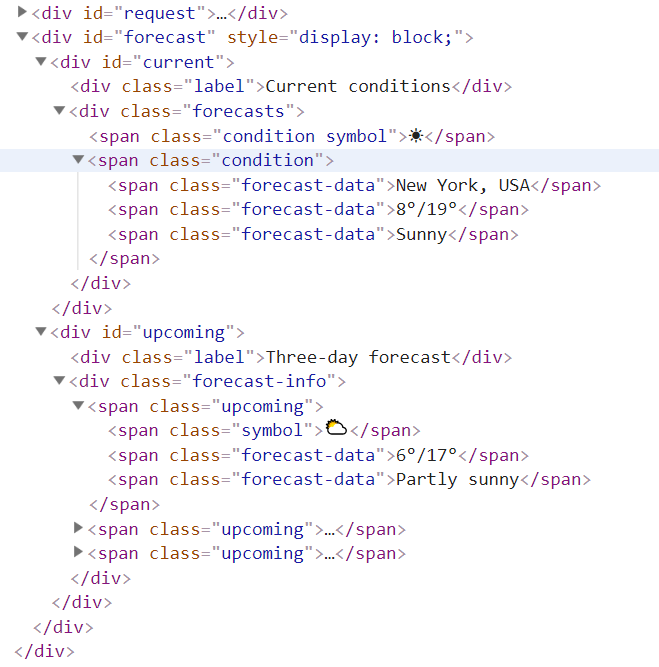
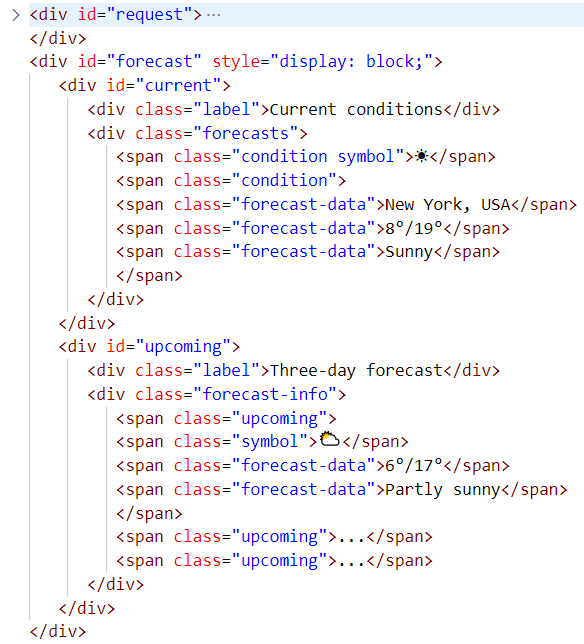
Refactor content

Changed region(s): [[0.0, 0.0, 1.0, 0.9938], [0.6473, 0.8075, 0.7397, 0.9006]]

diff --git a/RO/03-Asynchronous-Programming/06-Homework.md b/RO/03-Asynchronous-Programming/06-Homework.md
@@ -255,44 +255,11 @@ Când utilizatorul **introduce un nume** și **face clic** pe butonul [**Get Wea
 
 [image assetsSrc="asyncprogramming-13.png" /]
 
-```js
-<div id="request">...</div>
-<div id="forecast" style="display:none">
-   <div id="current">...</div>
-   <div id="upcoming">...</div>
-</div>
-```
+[image assetsSrc="asyncprogramming-14.png" /]
 
 [image assetsSrc="asyncprogramming-15.png" /]
 
-```js
-<div id="request">... </div>
-<div id="forecast" style="display: block;">
-   <div id="current">
-      <div class="label">Current conditions</div>
-      <div class="forecasts">
-         <span class="condition symbol">☀</span>
-         <span class="condition">
-         <span class="forecast-data">New York, USA</span>
-         <span class="forecast-data">8°/19°</span>
-         <span class="forecast-data">Sunny</span>
-         </span>
-      </div>
-   </div>
-   <div id="upcoming">
-      <div class="label">Three-day forecast</div>
-      <div class="forecast-info">
-         <span class="upcoming">
-         <span class="symbol">⛅</span>
-         <span class="forecast-data">6°/17°</span>
-         <span class="forecast-data">Partly sunny</span>
-         </span>
-         <span class="upcoming">...</span>
-         <span class="upcoming">...</span>
-      </div>
-   </div>
-</div>
-```
+[image assetsSrc="asyncprogramming-16.png" /]
 [/slide]
 
 
@@ -314,27 +281,7 @@ Creați un card de profil pentru fiecare utilizator și afișați-l pe pagina we
 
 Fiecare articol trebuie să aibă următoarea structură:
 
-```js
-<div class="profile">
-  <img src="./iconProfile2.png" class="userIcon">
-  <label>Lock</label>
-  <input type="radio" name="user1Locked" value="lock" checked>
-  <label>Unlock</label>
-  <input type="radio" name="user1Locked" value="unlock">
-  <br>
-  <hr>
-  <label>Username</label>
-  <input type="text" name="user1Username" value="John" disabled readonly>
-    Shadow Content (User Agent)
-</input>
-<div id="useriHiddenFields">
-   <hr>
-   <label>Email:</label>
-   <input type="email" name="user1Email" value="john@users.com" disabled readonly>
-   <label>Age:</label>
-   <input type="email" name="useriAge" value="31" disabled readonly>
-</div>
-```
+[image assetsSrc="async-programming03.png" /]
 
 [image assetsSrc="asyncprogramming-18v2.png" /]
 

diff --git a/EN/03-Asynchronous-Programming/06-Homework.md b/EN/03-Asynchronous-Programming/06-Homework.md
@@ -255,44 +255,11 @@ When the user **enters a name** and **clicks** on the [**Get Weather**] button, 
 
 [image assetsSrc="asyncprogramming-13.png" /]
 
-```js
-<div id="request">...</div>
-<div id="forecast" style="display:none">
-   <div id="current">...</div>
-   <div id="upcoming">...</div>
-</div>
-```
+[image assetsSrc="asyncprogramming-14.png" /]
 
 [image assetsSrc="asyncprogramming-15.png" /]
 
-```js
-<div id="request">... </div>
-<div id="forecast" style="display: block;">
-   <div id="current">
-      <div class="label">Current conditions</div>
-      <div class="forecasts">
-         <span class="condition symbol">☀</span>
-         <span class="condition">
-         <span class="forecast-data">New York, USA</span>
-         <span class="forecast-data">8°/19°</span>
-         <span class="forecast-data">Sunny</span>
-         </span>
-      </div>
-   </div>
-   <div id="upcoming">
-      <div class="label">Three-day forecast</div>
-      <div class="forecast-info">
-         <span class="upcoming">
-         <span class="symbol">⛅</span>
-         <span class="forecast-data">6°/17°</span>
-         <span class="forecast-data">Partly sunny</span>
-         </span>
-         <span class="upcoming">...</span>
-         <span class="upcoming">...</span>
-      </div>
-   </div>
-</div>
-```
+[image assetsSrc="asyncprogramming-16.png" /]
 
 
 [/slide]
@@ -316,27 +283,7 @@ Create a profile card for every user and display it on the web page.
 
 Every item should have the following structure:
 
-```js
-<div class="profile">
-  <img src="./iconProfile2.png" class="userIcon">
-  <label>Lock</label>
-  <input type="radio" name="user1Locked" value="lock" checked>
-  <label>Unlock</label>
-  <input type="radio" name="user1Locked" value="unlock">
-  <br>
-  <hr>
-  <label>Username</label>
-  <input type="text" name="user1Username" value="John" disabled readonly>
-    Shadow Content (User Agent)
-</input>
-<div id="useriHiddenFields">
-   <hr>
-   <label>Email:</label>
-   <input type="email" name="user1Email" value="john@users.com" disabled readonly>
-   <label>Age:</label>
-   <input type="email" name="useriAge" value="31" disabled readonly>
-</div>
-```
+[image assetsSrc="async-programming03.png" /]
 
 [image assetsSrc="asyncprogramming-18v2.png" /]
 
